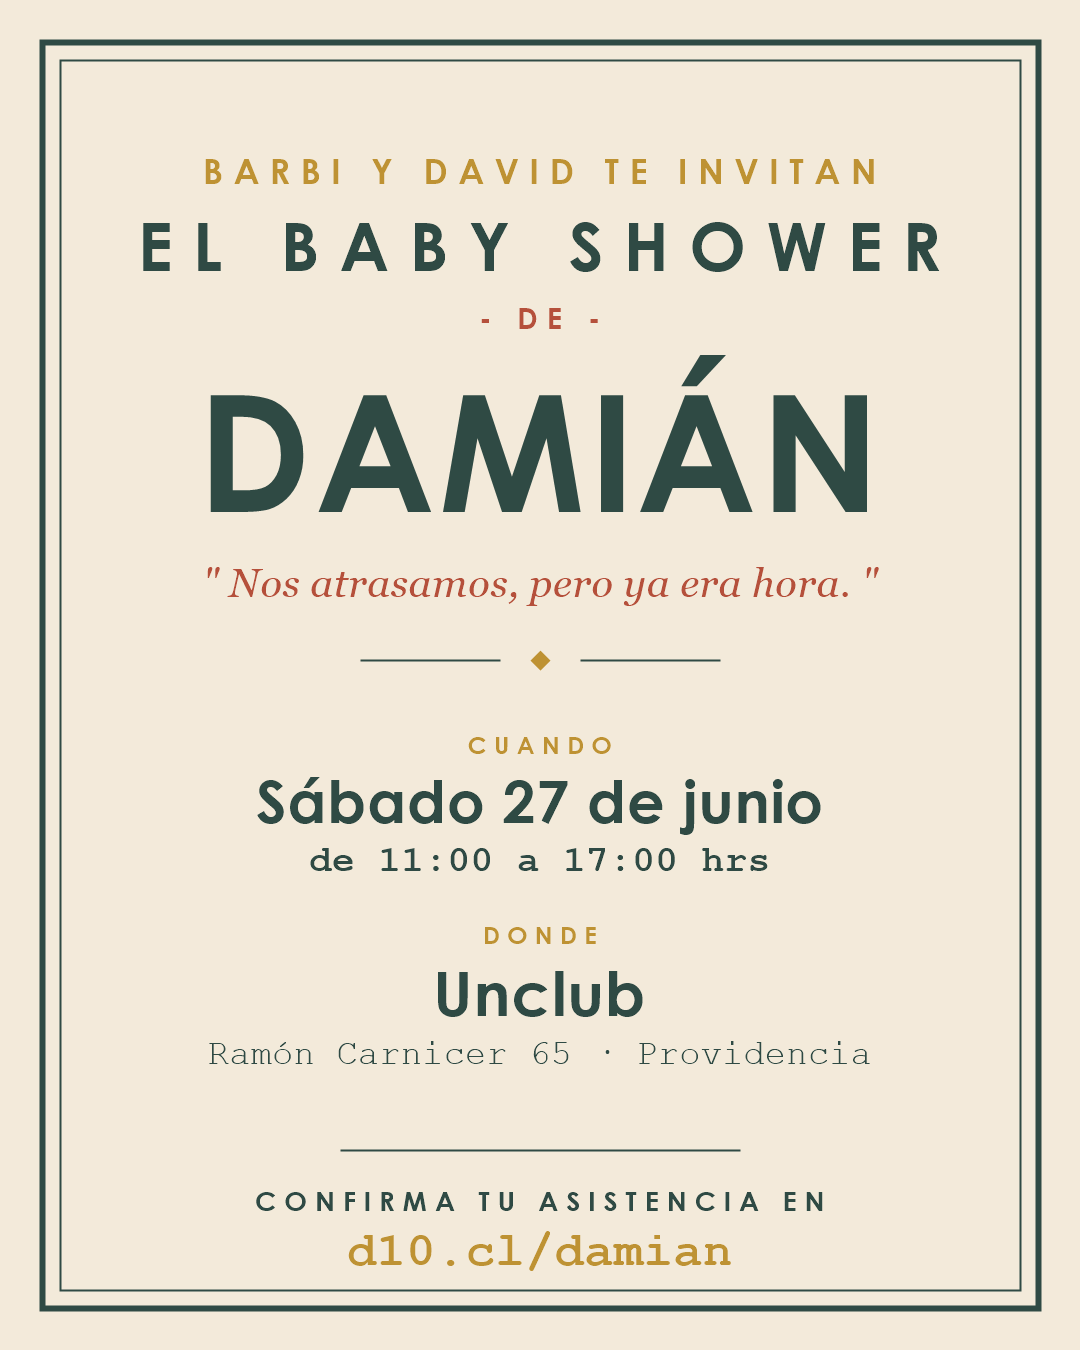
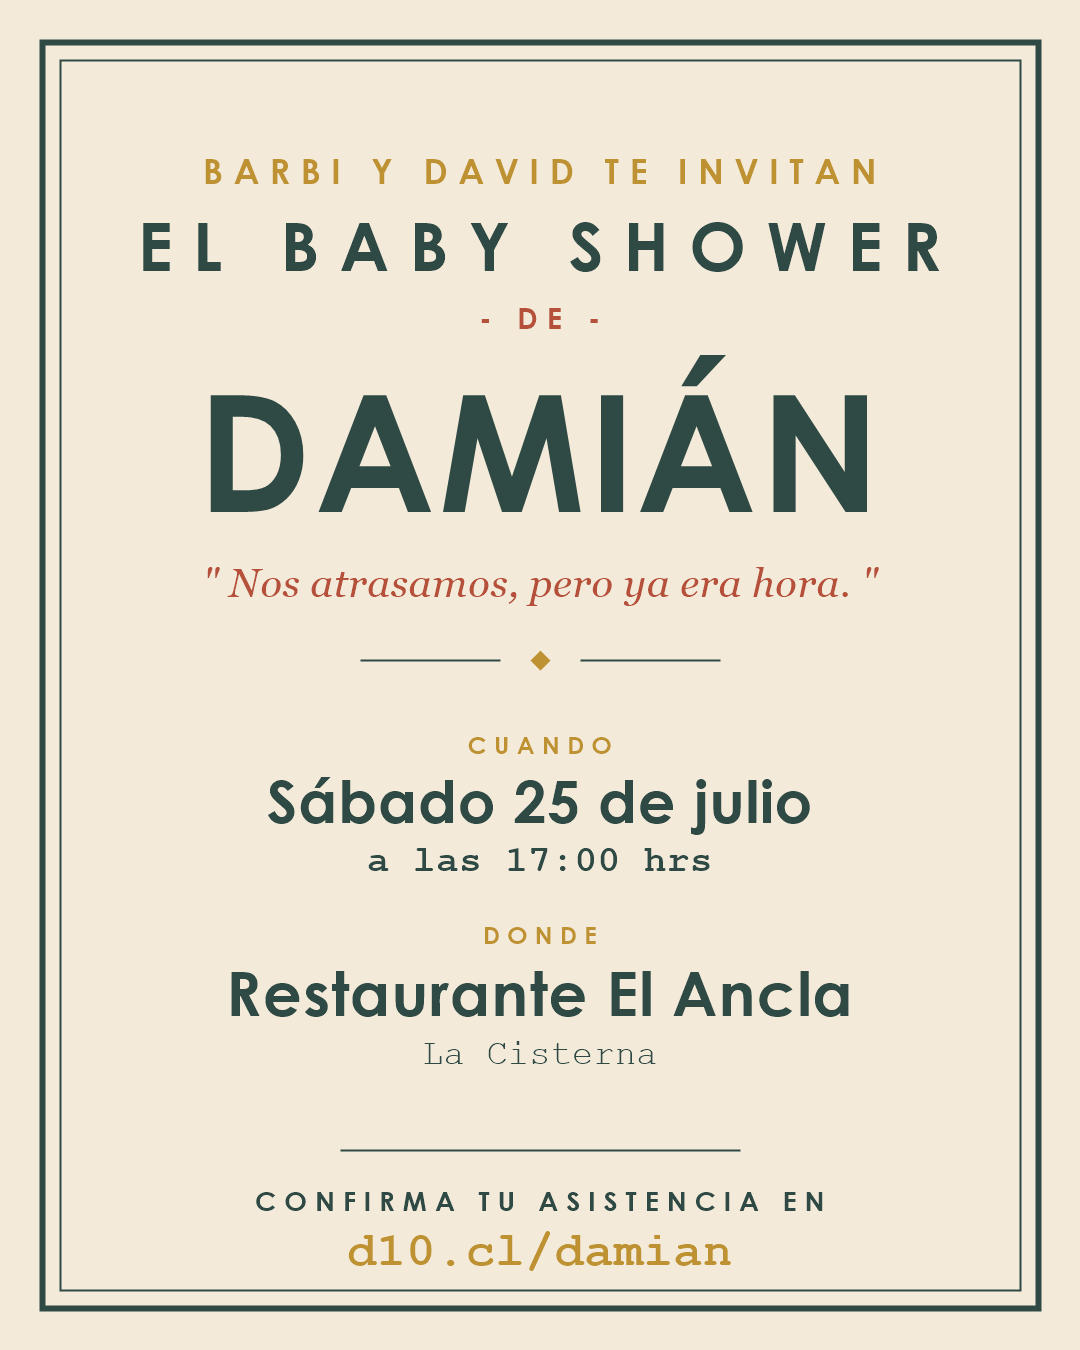
invitación "el bebé cae del cielo" + fecha 25 julio / El Ancla
Nueva entrada de parallax: el bebé (baby.png) cae del cielo empolvado
con nubes, el título desciende y aterriza en la portada. Datos
confirmados: sábado 25 de julio · 17:00 · Restaurante El Ancla, La
Cisterna (fundidos en la portada, ficha oculta como estaba). Se
mantiene la guía de regalos (tallas por temporada + ideas) y se le
agrega botón a la lista de Google Drive (placeholder).

Arreglos: se corrige un </div> de más que dejaba la tarjeta de créditos
fuera del #deck (huérfana); scroll-snap pasa a proximity para permitir
el scrub del cielo y suavizar la tarjeta de regalos alta; la navegación
ignora tarjetas ocultas. og.png y flyer.png regenerados con la nueva
fecha/lugar.

Changed region(s): [[0.2444, 0.56, 0.7639, 0.6533], [0.2139, 0.7156, 0.7944, 0.8089]]

diff --git a/damian/index.html b/damian/index.html
@@ -3,13 +3,13 @@
 <head>
 <meta charset="UTF-8">
 <meta name="viewport" content="width=device-width, initial-scale=1.0">
-<title>El Baby Shower de Damián 🍼 · Sáb 27 de junio</title>
-<meta name="description" content="Sábado 27 de junio · «Nos atrasamos, pero ya era hora.» Confirma tu asistencia — el lugar depende de cuántos seamos.">
+<title>El Baby Shower de Damián 🍼 · Sáb 25 de julio</title>
+<meta name="description" content="¡Confirmado! Sábado 25 de julio · 17:00 hrs · Restaurante El Ancla, La Cisterna. Confirma tu asistencia.">
 
 <!-- ── Tarjeta de WhatsApp (Open Graph) ───────────────────────────── -->
 <meta property="og:type" content="website">
 <meta property="og:title" content="El Baby Shower de Damián 🍼">
-<meta property="og:description" content="Sábado 27 de junio · «Nos atrasamos, pero ya era hora.» Confirma tu asistencia aquí.">
+<meta property="og:description" content="¡Confirmado! Sábado 25 de julio · 17:00 hrs · Restaurante El Ancla, La Cisterna. Confirma tu asistencia aquí.">
 <meta property="og:image" content="https://d10.cl/damian/og.png">
 <meta property="og:image:width" content="1200">
 <meta property="og:image:height" content="630">
@@ -53,7 +53,7 @@ body{
 .deck{
   height:100vh;height:100dvh;
   overflow-y:auto;
-  scroll-snap-type:y mandatory;
+  scroll-snap-type:y proximity;
   scroll-behavior:smooth;
   scrollbar-width:none;
 }
@@ -247,32 +247,36 @@ textarea{resize:none;min-height:42px}
 .finnote{font-family:'Courier Prime',monospace;font-style:italic;font-size:13px;opacity:.8;margin:0}
 .dudas{display:inline-block;margin-top:24px;font-family:'Courier Prime',monospace;font-size:13px;color:var(--ink)}
 
-/* ── Intro: cuenta regresiva de cine ── */
-.leader{
-  position:fixed;inset:0;z-index:100;background:var(--paper2);
-  display:grid;place-items:center;cursor:pointer;transition:opacity .5s;
+/* ── Datos confirmados en la portada ── */
+.datos{margin:22px auto 4px;font-family:'Courier Prime',monospace}
+.datos-l1{margin:0;font-size:16px;font-weight:700;color:var(--ink);letter-spacing:.02em}
+.datos-l2{margin:5px 0 0;font-size:14px;color:var(--ink);opacity:.85}
+
+/* ── Cielo: el bebé cae del cielo (parallax de entrada) ── */
+.sky{position:relative;height:185vh}
+.sky-scene{
+  position:sticky;top:0;height:100vh;height:100dvh;overflow:hidden;
+  background:linear-gradient(180deg,#8FB2C0 0%,var(--powder) 40%,#D2DFDF 70%,var(--paper) 100%);
 }
-.leader.out{opacity:0;pointer-events:none}
-.leader .disc{
-  width:min(64vw,260px);aspect-ratio:1;border-radius:50%;
-  border:3px solid var(--ink);position:relative;display:grid;place-items:center;
-  background:
-    linear-gradient(var(--ink),var(--ink)) center/100% 2px no-repeat,
-    linear-gradient(var(--ink),var(--ink)) center/2px 100% no-repeat,
-    radial-gradient(circle at center,var(--paper) 0 58%,var(--paper2) 58% 100%);
+.baby{
+  position:absolute;left:50%;top:34%;width:min(46vw,300px);height:auto;
+  transform:translateX(-50%);
+  filter:drop-shadow(0 16px 20px rgba(47,74,68,.22));
+  will-change:transform;z-index:3;pointer-events:none;
 }
-.leader .disc::before{
-  content:"";position:absolute;inset:14px;border:2px solid var(--ink);border-radius:50%;
-}
-.leader .disc::after{
-  content:"";position:absolute;left:50%;top:50%;width:2px;height:50%;
-  background:var(--ink);transform-origin:top center;animation:sweep .8s linear infinite;
-}
-@keyframes sweep{from{transform:rotate(0)}to{transform:rotate(360deg)}}
-.leader .n{
-  font-size:110px;font-weight:700;font-variant-numeric:tabular-nums;
-  position:relative;z-index:2;background:var(--paper);padding:0 18px;line-height:1;
-}
+.cloud{position:absolute;background:var(--paper);border-radius:100px;height:44px;will-change:transform;opacity:.96}
+.cloud::before,.cloud::after{content:"";position:absolute;background:var(--paper);border-radius:50%}
+.cloud::before{width:52%;height:200%;left:15%;bottom:22%}
+.cloud::after{width:38%;height:155%;right:17%;bottom:16%}
+.cloud-a{width:190px;top:22%;left:-6%;z-index:2}
+.cloud-b{width:140px;top:52%;right:-6%;z-index:4}
+.cloud-c{width:110px;top:70%;left:6%;z-index:2}
+.sky-copy{position:absolute;top:12%;left:0;right:0;padding:0 26px;text-align:center;z-index:5;will-change:transform}
+.sky-kicker{font-size:12px;letter-spacing:.42em;text-indent:.42em;text-transform:uppercase;color:var(--mustard);font-weight:600;margin:0 0 12px}
+.sky-title{margin:0;font-weight:700;text-transform:uppercase;line-height:1.05;color:var(--ink);font-size:clamp(28px,8vw,52px);letter-spacing:.05em}
+.sky-title span{color:var(--red)}
+.sky-cue{position:absolute;bottom:5vh;left:0;right:0;text-align:center;z-index:5;font-size:11px;letter-spacing:.34em;text-indent:.34em;text-transform:uppercase;color:var(--ink);font-weight:600}
+.sky-cue span{display:block;font-size:16px;margin-top:4px;animation:bob 1.6s ease-in-out infinite}
 @media (max-width:430px){
   h1 .l1{font-size:5.6vw;letter-spacing:.24em;text-indent:.24em}
   .dotnav{right:16px}
@@ -293,9 +297,8 @@ textarea{resize:none;min-height:42px}
   #rsvp .next{margin-top:20px}
 }
 @media (prefers-reduced-motion:reduce){
-  .leader{display:none}
   .stamp{animation:none}
-  .next .chev{animation:none}
+  .next .chev,.sky-cue span{animation:none}
   .deck{scroll-behavior:auto}
 }
 </style>
@@ -304,27 +307,43 @@ textarea{resize:none;min-height:42px}
 
 <div class="frame" aria-hidden="true"></div>
 
-<!-- Cuenta regresiva de cine al abrir (tocar para saltar) -->
-<div class="leader" id="leader" role="presentation">
-  <div class="disc"><span class="n" id="leaderNum">3</span></div>
-</div>
-
 <!-- Puntos de navegación -->
 <nav class="dotnav" id="dotnav" aria-label="Escenas"></nav>
 
 <div class="deck" id="deck">
 
-  <!-- ── ESCENA 1 · PORTADA ──────────────────────────────────── -->
+  <!-- ── CIELO · el bebé cae del cielo (parallax de entrada) ──── -->
+  <section class="sky" id="sky" aria-hidden="true">
+    <div class="sky-scene">
+      <div class="cloud cloud-a" data-par="0.6"></div>
+      <div class="cloud cloud-b" data-par="0.9"></div>
+      <div class="cloud cloud-c" data-par="0.45"></div>
+      <img class="baby" id="baby" src="baby.png" alt="">
+      <div class="sky-copy" id="skyCopy">
+        <p class="sky-kicker">Es oficial</p>
+        <p class="sky-title">¡Baby Shower<br>de Damián<br><span>confirmado!</span></p>
+      </div>
+      <div class="sky-cue" id="skyCue">baja<span>▾</span></div>
+    </div>
+  </section>
+
+  <!-- ── ESCENA 1 · PORTADA (aterrizaje) ─────────────────────── -->
   <section class="card" id="portada">
     <div class="inner">
-      <p class="kicker" style="color: var(--red); font-size: 16.8px;">¡Atención!</p>
+      <p class="kicker">Barbi y David te invitan</p>
       <h1>
-        <span class="l1">Baby Shower</span>
-        <span class="l2" style="font-size: 0.75em; margin: 8px 0;">· reprogramado ·</span>
-        <span class="l3" style="margin-top: 24px;">Damián</span>
+        <span class="l1">El Baby Shower</span>
+        <span class="l2">· de ·</span>
+        <span class="l3">Damián</span>
       </h1>
-      <p class="sub" style="font-size: 14px; font-weight: 500;">Fecha y lugar por confirmar</p>
-      <button class="next" data-next>Confirmación asistencia<span class="chev">▾</span></button>
+      <p class="tagline">«Nos atrasamos, pero ya era hora.»</p>
+      <div class="datos">
+        <p class="datos-l1">Sábado 25 de julio · 17:00 hrs</p>
+        <p class="datos-l2">Restaurante El Ancla · La Cisterna</p>
+      </div>
+      <div class="chip" id="countdown">Faltan — días</div>
+      <br>
+      <button class="next" data-next>Confirmar asistencia<span class="chev">▾</span></button>
     </div>
   </section>
 
@@ -334,7 +353,7 @@ textarea{resize:none;min-height:42px}
       <h2>Los datos</h2>
       <div class="ficha">
         <div class="row"><span class="k">Protagonista</span><span class="dots"></span><span class="v">Damián</span></div>
-        <div class="row"><span class="k">Fecha</span><span class="dots"></span><span class="v">Sábado 27 de junio</span></div>
+        <div class="row"><span class="k">Fecha</span><span class="dots"></span><span class="v">Sábado 25 de julio</span></div>
         <div class="row"><span class="k">Hora</span><span class="dots"></span><span class="v tbd" id="horaV">Por confirmar*</span></div>
         <div class="row"><span class="k">Lugar</span><span class="dots"></span><span class="v tbd" id="lugarV">Por confirmar*</span></div>
         <p class="note" id="fichaNote">* El lugar y la hora dependen de cuántos seamos.
@@ -348,7 +367,7 @@ textarea{resize:none;min-height:42px}
   <section class="card" id="rsvp">
     <div class="inner">
       <h2>La confirmación</h2>
-      <p class="lead">Cuéntanos si vienes — del número de confirmados depende el lugar.</p>
+      <p class="lead">Cuéntanos si vienes y con cuántos — así cuadramos las sillas.</p>
       <p class="censo" id="censo" hidden></p>
 
       <form id="form" autocomplete="off">
@@ -401,7 +420,7 @@ textarea{resize:none;min-height:42px}
         <p id="confSub">El lugar lo revelamos en cuanto terminemos de contar las sillas.
         Te avisamos por WhatsApp.</p>
         <div class="actions">
-          <a class="btn sm ghost" id="icsBtn" href="#" download="baby-shower-damian.ics">+ Agendar el 27</a>
+          <a class="btn sm ghost" id="icsBtn" href="#" download="baby-shower-damian.ics">+ Agendar el 25</a>
           <a class="btn sm ghost" id="shareBtn" href="#" target="_blank" rel="noopener">Reenviar invitación</a>
         </div>
         <p class="hint" style="text-align:center;margin-top:18px">¿Cambio de planes? <a id="fixLink" href="#" target="_blank" rel="noopener" style="color:var(--red)">escríbenos</a>.</p>
@@ -434,6 +453,9 @@ textarea{resize:none;min-height:42px}
         <p style="font-family: 'Jost', sans-serif; color: #2c4a3e; font-size: 1.1em; line-height: 1.3; margin-bottom: 20px; font-weight: 300;">
             Si quieren regalarle algo a Damián, ¡se los agradecemos desde ya!
         </p>
+
+        <!-- BOTÓN A LA LISTA (Google Drive) -->
+        <a id="giftBtn" href="#" target="_blank" rel="noopener" style="display:inline-block;font-family:'Jost',sans-serif;font-size:0.8em;letter-spacing:2px;text-transform:uppercase;font-weight:700;color:#fffdf4;background:#2c4a3e;border:2px solid #2c4a3e;padding:13px 24px;text-decoration:none;margin:0 0 28px;">Ver la lista completa →</a>
 
         <!-- SECCIÓN 1: LO QUE YA TENEMOS -->
         <h3 style="font-family: 'Courier Prime', monospace; letter-spacing: 3px; color: #2c4a3e; font-weight: 700; margin-bottom: 20px; text-transform: uppercase; font-size: 1.1em;">LO QUE YA TENEMOS</h3>
@@ -478,9 +500,8 @@ textarea{resize:none;min-height:42px}
             Cualquier cosa es bienvenida.
         </p>
 
-    </div>
-</div>
-</div>
+        </div>
+      </div>
       <button class="next" data-next style="display:none">Continuar<span class="chev">▾</span></button>
     </div>
   </section>
@@ -492,8 +513,8 @@ textarea{resize:none;min-height:42px}
       <div class="row"><span class="k">Protagonista</span><span class="dots"></span><span class="v">Damián</span></div>
       <div class="row"><span class="k">Mamá</span><span class="dots"></span><span class="v" id="mama"><span class="blank2">______</span></span></div>
       <div class="row"><span class="k">Papá</span><span class="dots"></span><span class="v" id="papa"><span class="blank2">______</span></span></div>
-      <div class="row"><span class="k">Lugar</span><span class="dots"></span><span class="v">En negociación</span></div>
-      <div class="row"><span class="k">Fecha</span><span class="dots"></span><span class="v">27 · 06 · 2026</span></div>
+      <div class="row"><span class="k">Lugar</span><span class="dots"></span><span class="v">El Ancla · La Cisterna</span></div>
+      <div class="row"><span class="k">Fecha</span><span class="dots"></span><span class="v">25 · 07 · 2026</span></div>
       <p class="fin">FIN<span style="color:var(--red)">*</span></p>
       <p class="finnote">* en realidad, el comienzo.</p>
       <br>
@@ -513,9 +534,11 @@ const CONFIG = {
   MAMA:     "Barbi",       // créditos: fila "Mamá"
   PAPA:     "David",       // créditos: fila "Papá"
 
-  HORA:     "11:00 a 17:00 hrs",          // vacío = "POR CONFIRMAR*"
-  LUGAR:    "Unclub · Ramón Carnicer 65, Providencia",  // vacío = "POR CONFIRMAR*"
-  PLAZO:    "viernes 20 de junio",   // ✏ fecha límite para confirmar
+  HORA:     "17:00 hrs",   // vacío = "POR CONFIRMAR*"
+  LUGAR:    "Restaurante El Ancla · La Cisterna",  // vacío = "POR CONFIRMAR*"
+  PLAZO:    "viernes 17 de julio",   // ✏ fecha límite para confirmar
+
+  LISTA_REGALOS_URL: "",   // ✏ pega el link de la lista de regalos (Google Drive)
 
   WHATSAPP: "56993592888", // número de David — botón de dudas y avisos de "No puedo"
   APPS_SCRIPT_URL: "https://script.google.com/macros/s/AKfycbzeEJq_uFZp8MiMaa4CorXCE7bheLLkcpT_n_uNfn1nozGiBcRYyeVzg1AAx0F3-AtB/exec",
@@ -523,28 +546,48 @@ const CONFIG = {
 /* ════════════════════════════════════════════════════════════════ */
 
 const $ = (id) => document.getElementById(id);
-const FECHA_EVENTO = new Date(2026, 5, 27); // 27 de junio de 2026
+const FECHA_EVENTO = new Date(2026, 6, 25); // 25 de julio de 2026
 const URL_INVITACION = "https://d10.cl/damian";
 const configurado = (v) => v && !v.includes("XXXX");
 
-/* ── Intro de cine: 3 · 2 · 1 ── */
-(function intro(){
-  const leader = $("leader");
-  const skip = location.search.includes("nointro") || sessionStorage.getItem("damian_intro");
-  if (skip) { leader.remove(); return; }
-  sessionStorage.setItem("damian_intro", "1");
-  let n = 3;
-  const tick = setInterval(() => {
-    n--;
-    if (n >= 1) { $("leaderNum").textContent = n; }
-    else { clearInterval(tick); leader.classList.add("out"); setTimeout(() => leader.remove(), 600); }
-  }, 650);
-  leader.addEventListener("click", () => { clearInterval(tick); leader.remove(); });
+/* ── Cielo: parallax del bebé cayendo ── */
+(function cielo(){
+  const scroller = $("deck");
+  const sky = $("sky"), baby = $("baby"), copy = $("skyCopy"), cue = $("skyCue");
+  const clouds = Array.from(document.querySelectorAll(".cloud"));
+
+  // ?nointro: saltar el cielo y partir en la portada
+  if (location.search.includes("nointro")) {
+    requestAnimationFrame(() => $("portada").scrollIntoView());
+  }
+  if (matchMedia("(prefers-reduced-motion: reduce)").matches) return; // escena estática
+
+  let ticking = false;
+  function render(){
+    ticking = false;
+    const rango = sky.offsetHeight - window.innerHeight;
+    const p = rango > 0 ? Math.min(Math.max(scroller.scrollTop / rango, 0), 1) : 0;
+    baby.style.transform = `translateX(-50%) translateY(${p * 46}vh) rotate(${-5 + p * 10}deg)`;
+    copy.style.transform = `translateY(${p * 22}vh)`;
+    copy.style.opacity = String(1 - p * 0.55);
+    clouds.forEach(c => {
+      const par = parseFloat(c.dataset.par) || 0.5;
+      const dir = c.classList.contains("cloud-b") ? 1 : -1;
+      c.style.transform = `translateX(${dir * p * par * 70}vw)`;
+      c.style.opacity = String(Math.max(0, 0.96 - p * 0.7));
+    });
+    cue.style.opacity = String(Math.max(0, 1 - p * 2.4));
+  }
+  scroller.addEventListener("scroll", () => {
+    if (!ticking) { ticking = true; requestAnimationFrame(render); }
+  }, { passive: true });
+  window.addEventListener("resize", render, { passive: true });
+  render();
 })();
 
 /* ── Navegación del mazo: tarjeta por tarjeta ── */
 const deck = $("deck");
-const cards = Array.from(deck.querySelectorAll(".card"));
+const cards = Array.from(deck.querySelectorAll(".card")).filter(c => getComputedStyle(c).display !== "none");
 const dotnav = $("dotnav");
 cards.forEach((card, i) => {
   const dot = document.createElement("button");
@@ -591,7 +634,14 @@ document.addEventListener("keydown", (e) => {
   if (CONFIG.HORA)  { const el = $("horaV");  el.textContent = CONFIG.HORA;  el.classList.remove("tbd"); }
   if (CONFIG.LUGAR) { const el = $("lugarV"); el.textContent = CONFIG.LUGAR; el.classList.remove("tbd"); }
   if (CONFIG.HORA && CONFIG.LUGAR) {
-    $("fichaNote").innerHTML = "¡Ya tenemos lugar! Nos juntamos en Unclub. Confírmanos igual para tener las sillas justas. <br>— Barbi &amp; David";
+    $("fichaNote").innerHTML = "¡Ya está todo listo! Confírmanos igual para tener las sillas justas. <br>— Barbi &amp; David";
+  }
+
+  // Botón de la lista de regalos (Google Drive)
+  const gift = $("giftBtn");
+  if (gift) {
+    if (CONFIG.LISTA_REGALOS_URL) gift.href = CONFIG.LISTA_REGALOS_URL;
+    else gift.addEventListener("click", (e) => { e.preventDefault(); alert("La lista está en camino. Vuelve pronto 🙂"); });
   }
 
   const wa = configurado(CONFIG.WHATSAPP) ? "https://wa.me/" + CONFIG.WHATSAPP : null;
@@ -600,16 +650,16 @@ document.addEventListener("keydown", (e) => {
 
   // Botón compartir (los invitados reenvían la invitación)
   $("shareBtn").href = "https://wa.me/?text=" + encodeURIComponent(
-    "Estás invitad@ al Baby Shower de Damián 🍼 Sáb 27 de junio. Confirma aquí: " + URL_INVITACION
+    "Estás invitad@ al Baby Shower de Damián 🍼 Sáb 25 de julio, 17:00, Restaurante El Ancla (La Cisterna). Confirma aquí: " + URL_INVITACION
   );
 
   // Archivo de calendario (.ics)
   const ics = [
     "BEGIN:VCALENDAR","VERSION:2.0","PRODID:-//d10//damian//ES","BEGIN:VEVENT",
-    "UID:babyshower-damian-20260627@d10.cl",
-    "DTSTART;VALUE=DATE:20260627","DTEND;VALUE=DATE:20260628",
+    "UID:babyshower-damian-20260725@d10.cl",
+    "DTSTART:20260725T170000","DTEND:20260725T200000",
     "SUMMARY:Baby Shower de Damián 🍼",
-    "DESCRIPTION:Hora y lugar por confirmar — " + URL_INVITACION,
+    "DESCRIPTION:Restaurante El Ancla\\, La Cisterna — " + URL_INVITACION,
     "URL:" + URL_INVITACION,
     "END:VEVENT","END:VCALENDAR"
   ].join("\r\n");
@@ -666,10 +716,10 @@ function mostrarConfirmado(nombre, total, asiste){
   if (asiste) {
     $("confText").textContent =
       `¡Listo, ${nombre}! ` + (total > 1 ? `Te guardamos ${total} sillas.` : "Te guardamos la silla.");
-    $("confSub").textContent = "El lugar lo revelamos en cuanto terminemos de contar las sillas. Te avisamos por WhatsApp.";
+    $("confSub").textContent = "Nos vemos el sábado 25 de julio a las 17:00 en Restaurante El Ancla, La Cisterna. ¡Gracias!";
   } else {
     $("confText").textContent = `Gracias por avisar, ${nombre}. Te vamos a extrañar.`;
-    $("confSub").textContent = "Si los planes cambian antes del 20, escríbenos y te sumamos de vuelta.";
+    $("confSub").textContent = "Si los planes cambian, escríbenos y te sumamos de vuelta.";
     $("icsBtn").style.display = "none";
   }
 }
